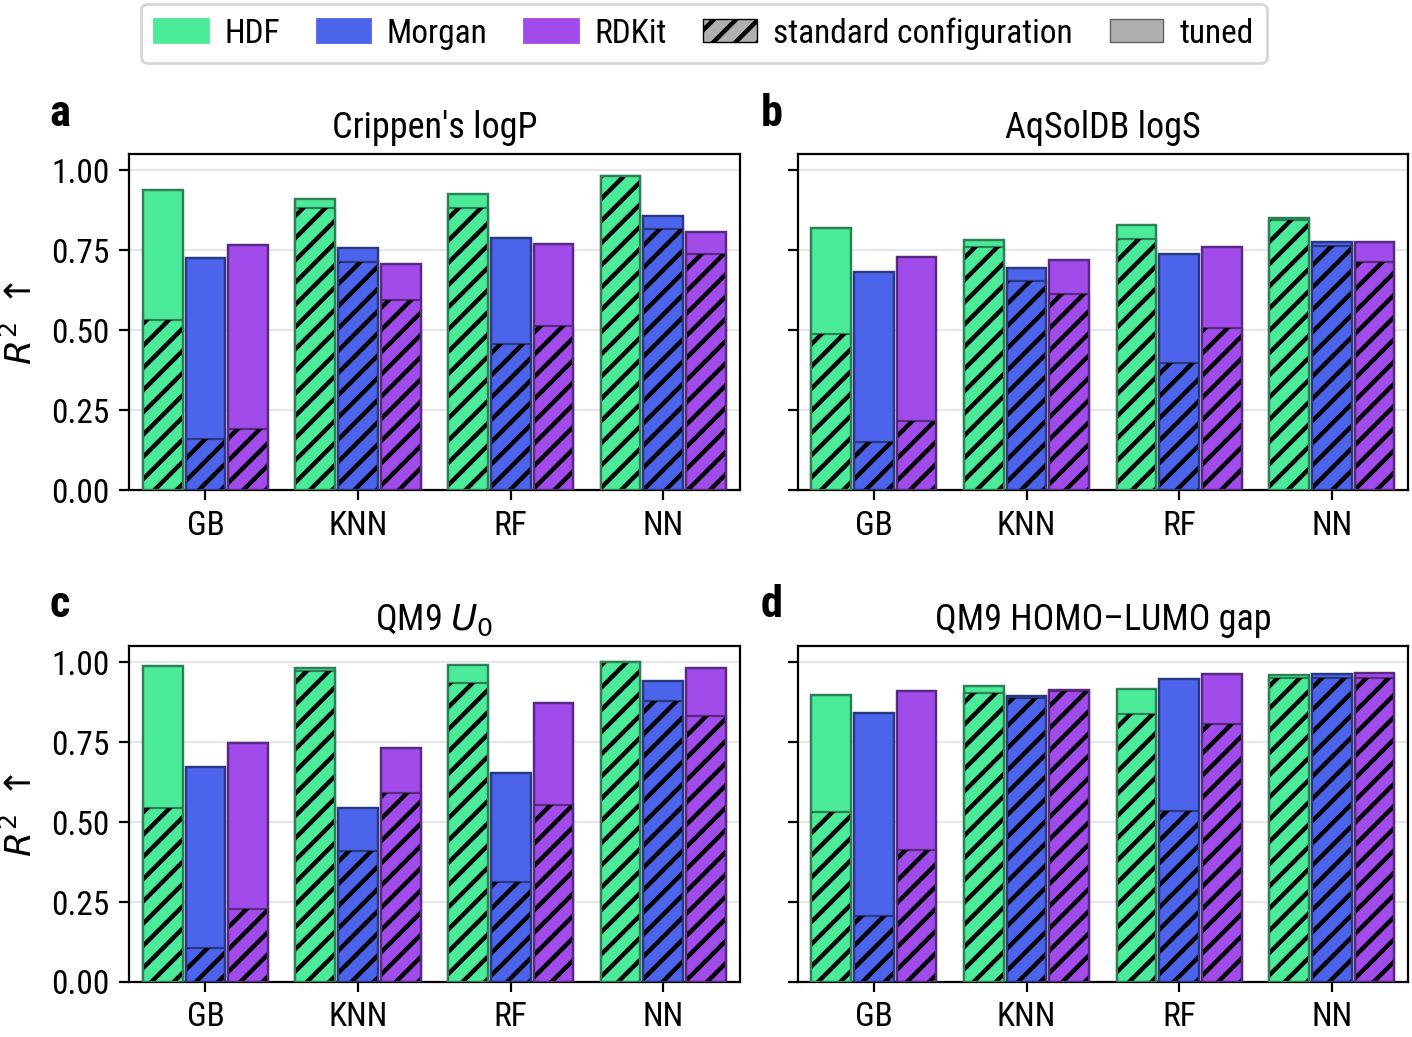
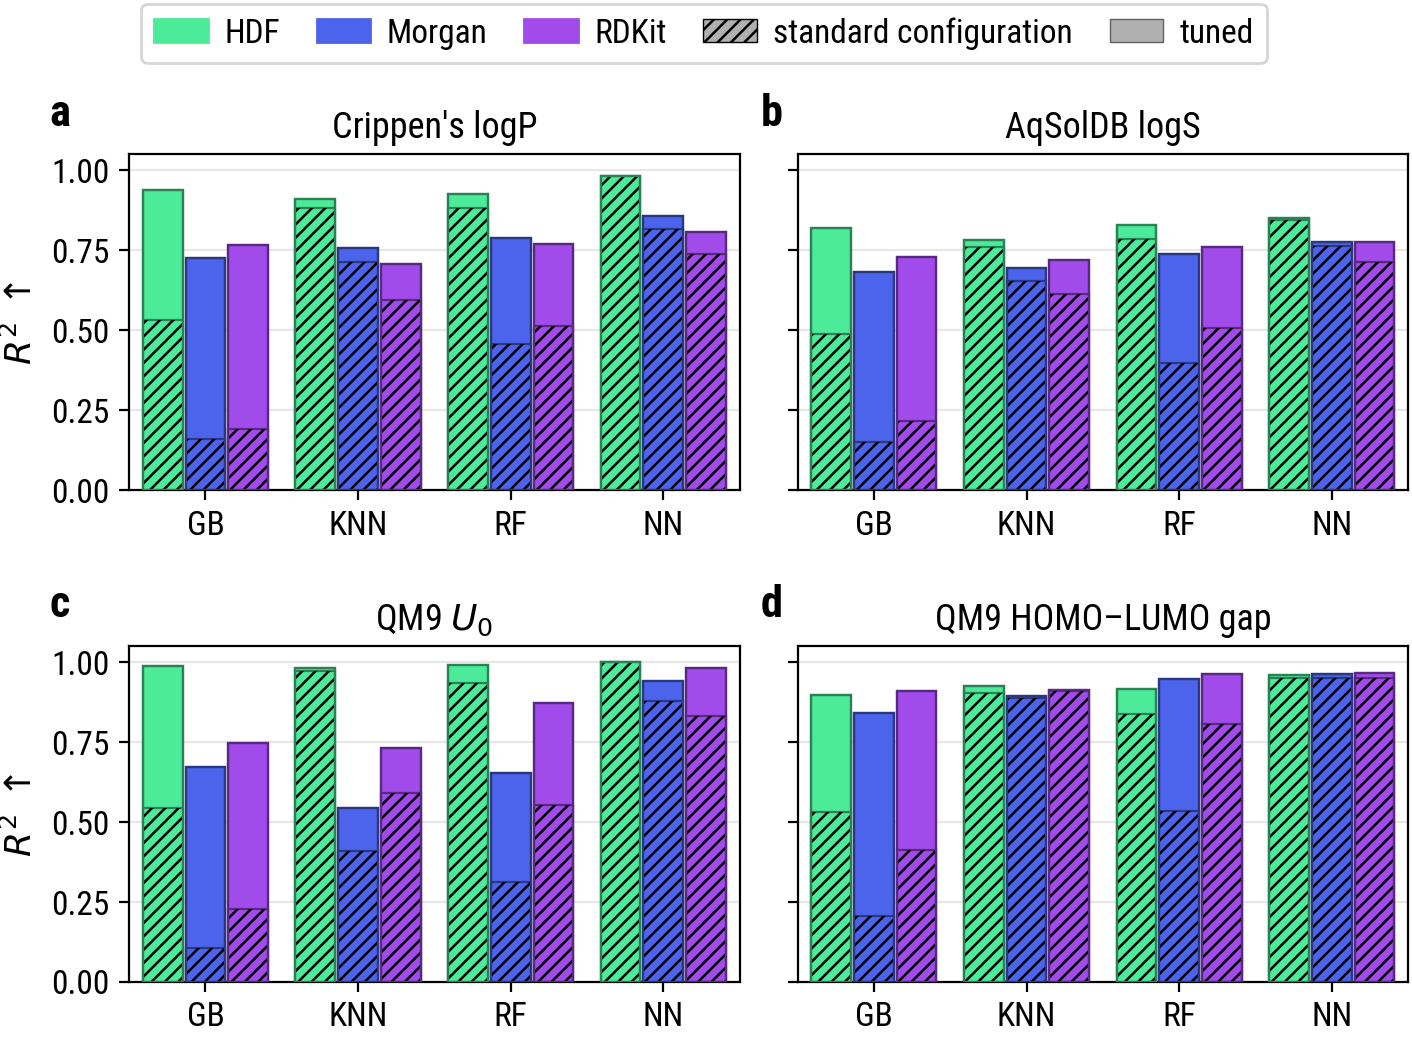
ex_28: Figure 2 hatch thinner and denser (/////, 0.9 pt; user)

diff --git a/graph_hdc/experiments/fingerprints/make_figure_model_comparison.py b/graph_hdc/experiments/fingerprints/make_figure_model_comparison.py
@@ -26,8 +26,9 @@ MODELS = ['GB', 'KNN', 'RF', 'NN']
 METHODS = [('hdf', 'HDF', '#4CEB99'), ('morgan', 'Morgan', '#4C64EB'), ('rdkit', 'RDKit', '#A14BEB')]
 WIDTH = 0.26
 # the black hatch of the standard configuration (pattern and line width in points before scaling to the text width)
-HATCH = '///'
-HATCH_LINEWIDTH = 1.6   # user, 2026-10-23: stronger and more visible than '////' at 0.9
+HATCH = '/////'
+# user, 2026-10-23: '////' at 0.9 was too faint, '///' at 1.6 too thick; denser thin lines instead
+HATCH_LINEWIDTH = 0.9
 
 
 def darker(hex_color: str, factor: float = 0.55) -> tuple:
